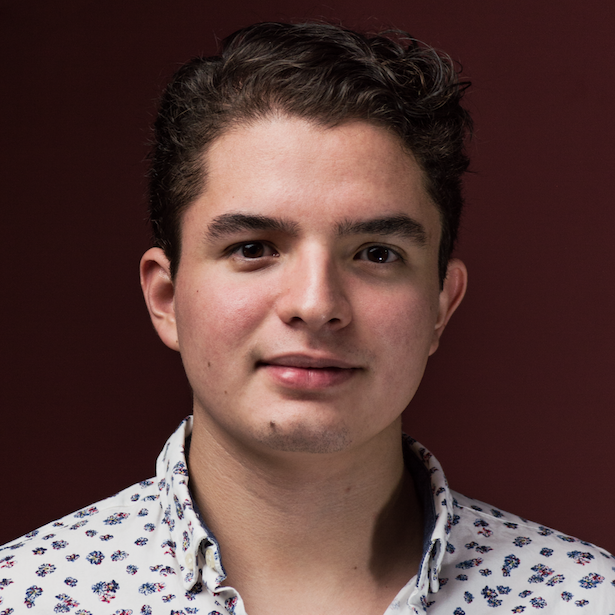
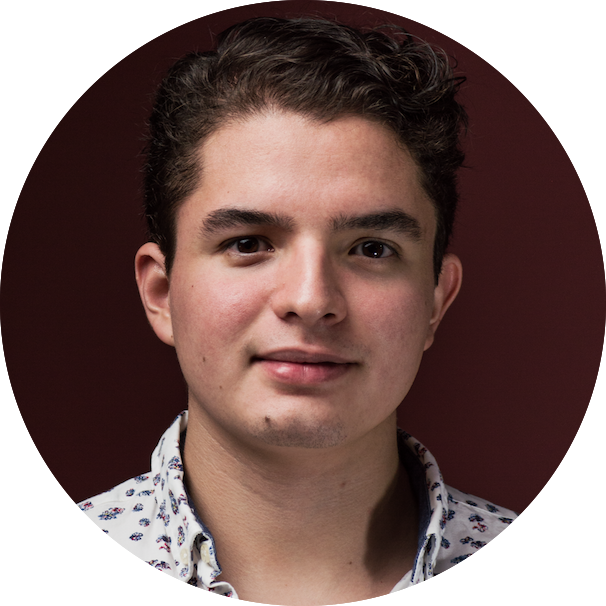
Rounded profile-picture corners

diff --git a/src/pages/index.js b/src/pages/index.js
@@ -42,7 +42,7 @@ export default class IndexPage extends Component {
   renderPhoto(src) {
     return <div className="right column">
         <Img
-          alt="Roberto's Profile Image"
+          alt="Roberto's Profile Picture"
           className="profile-picture"
           fluid={this.props.data.file.childImageSharp.fluid}
         />
